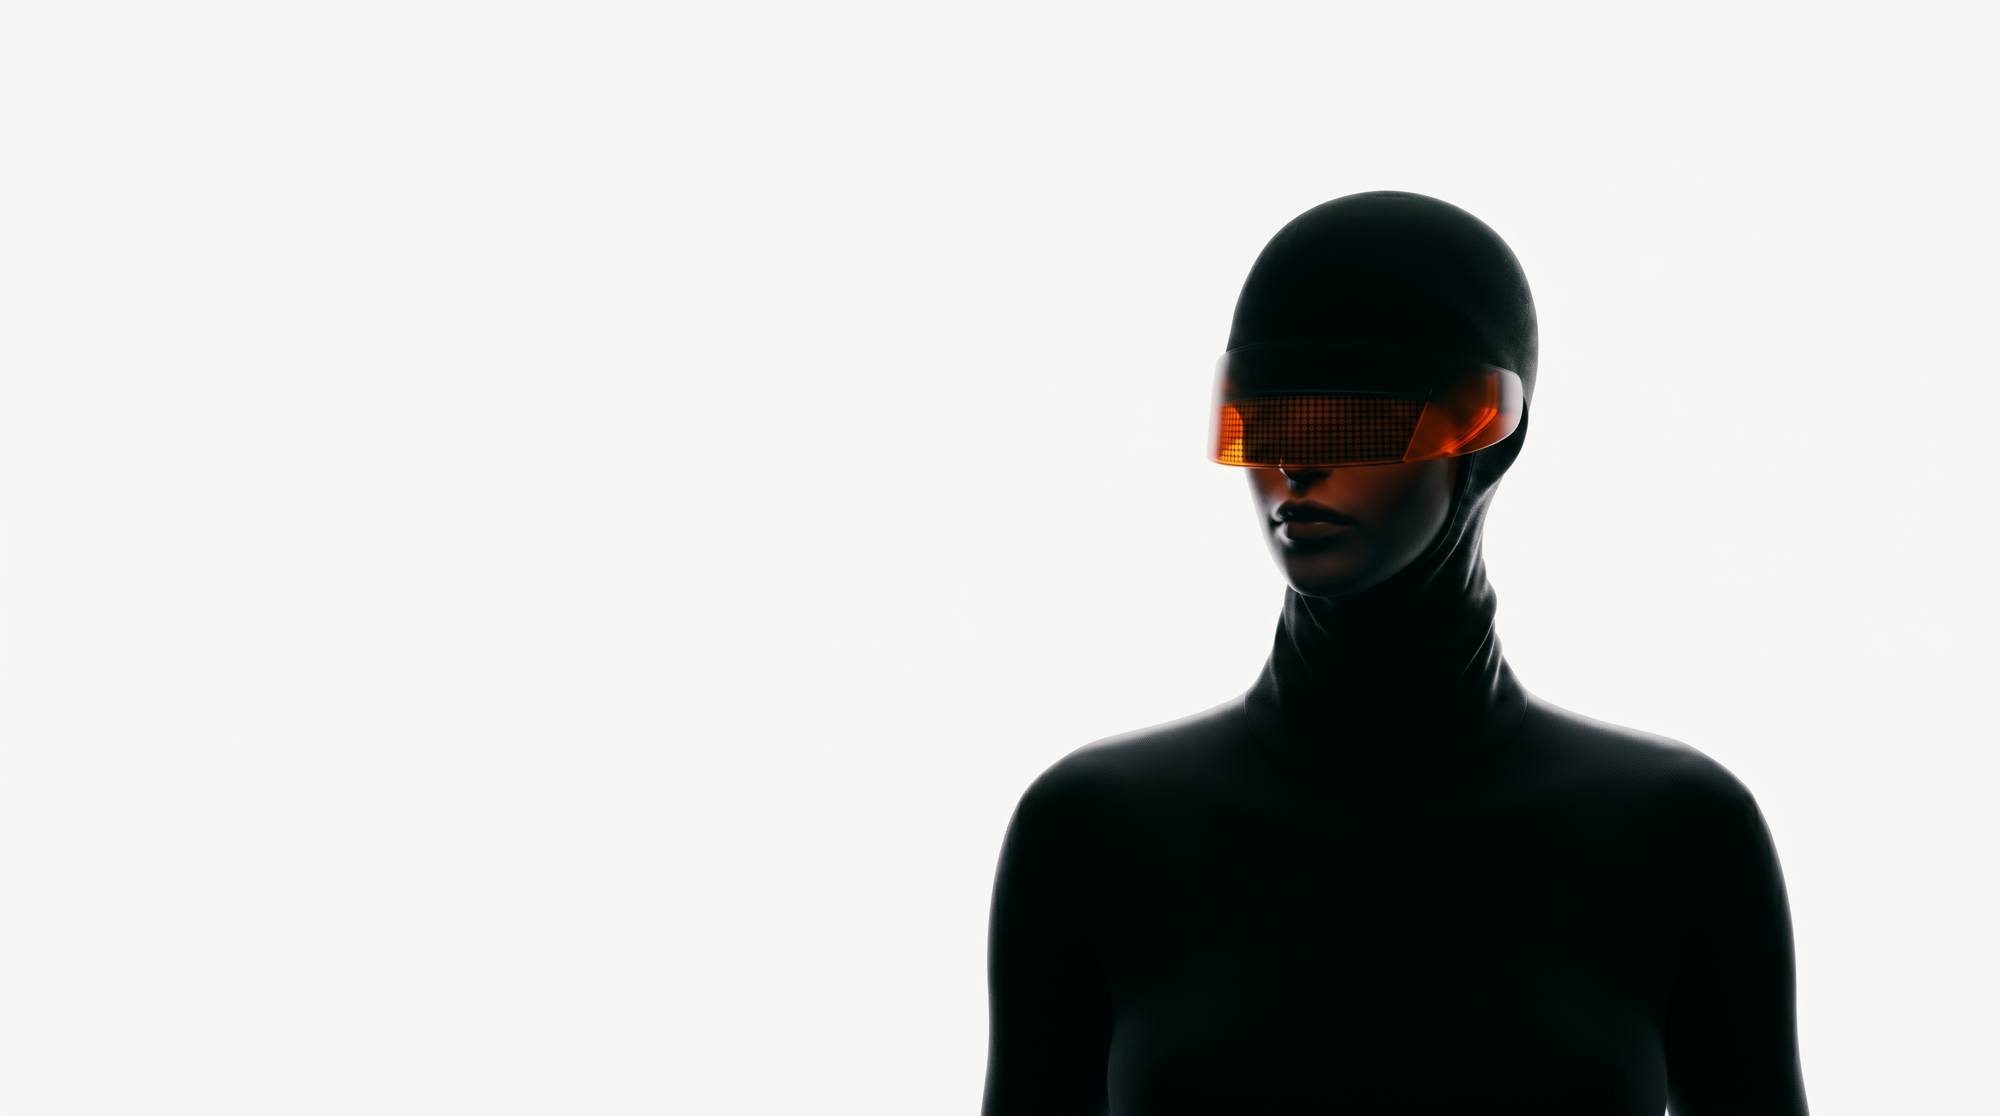
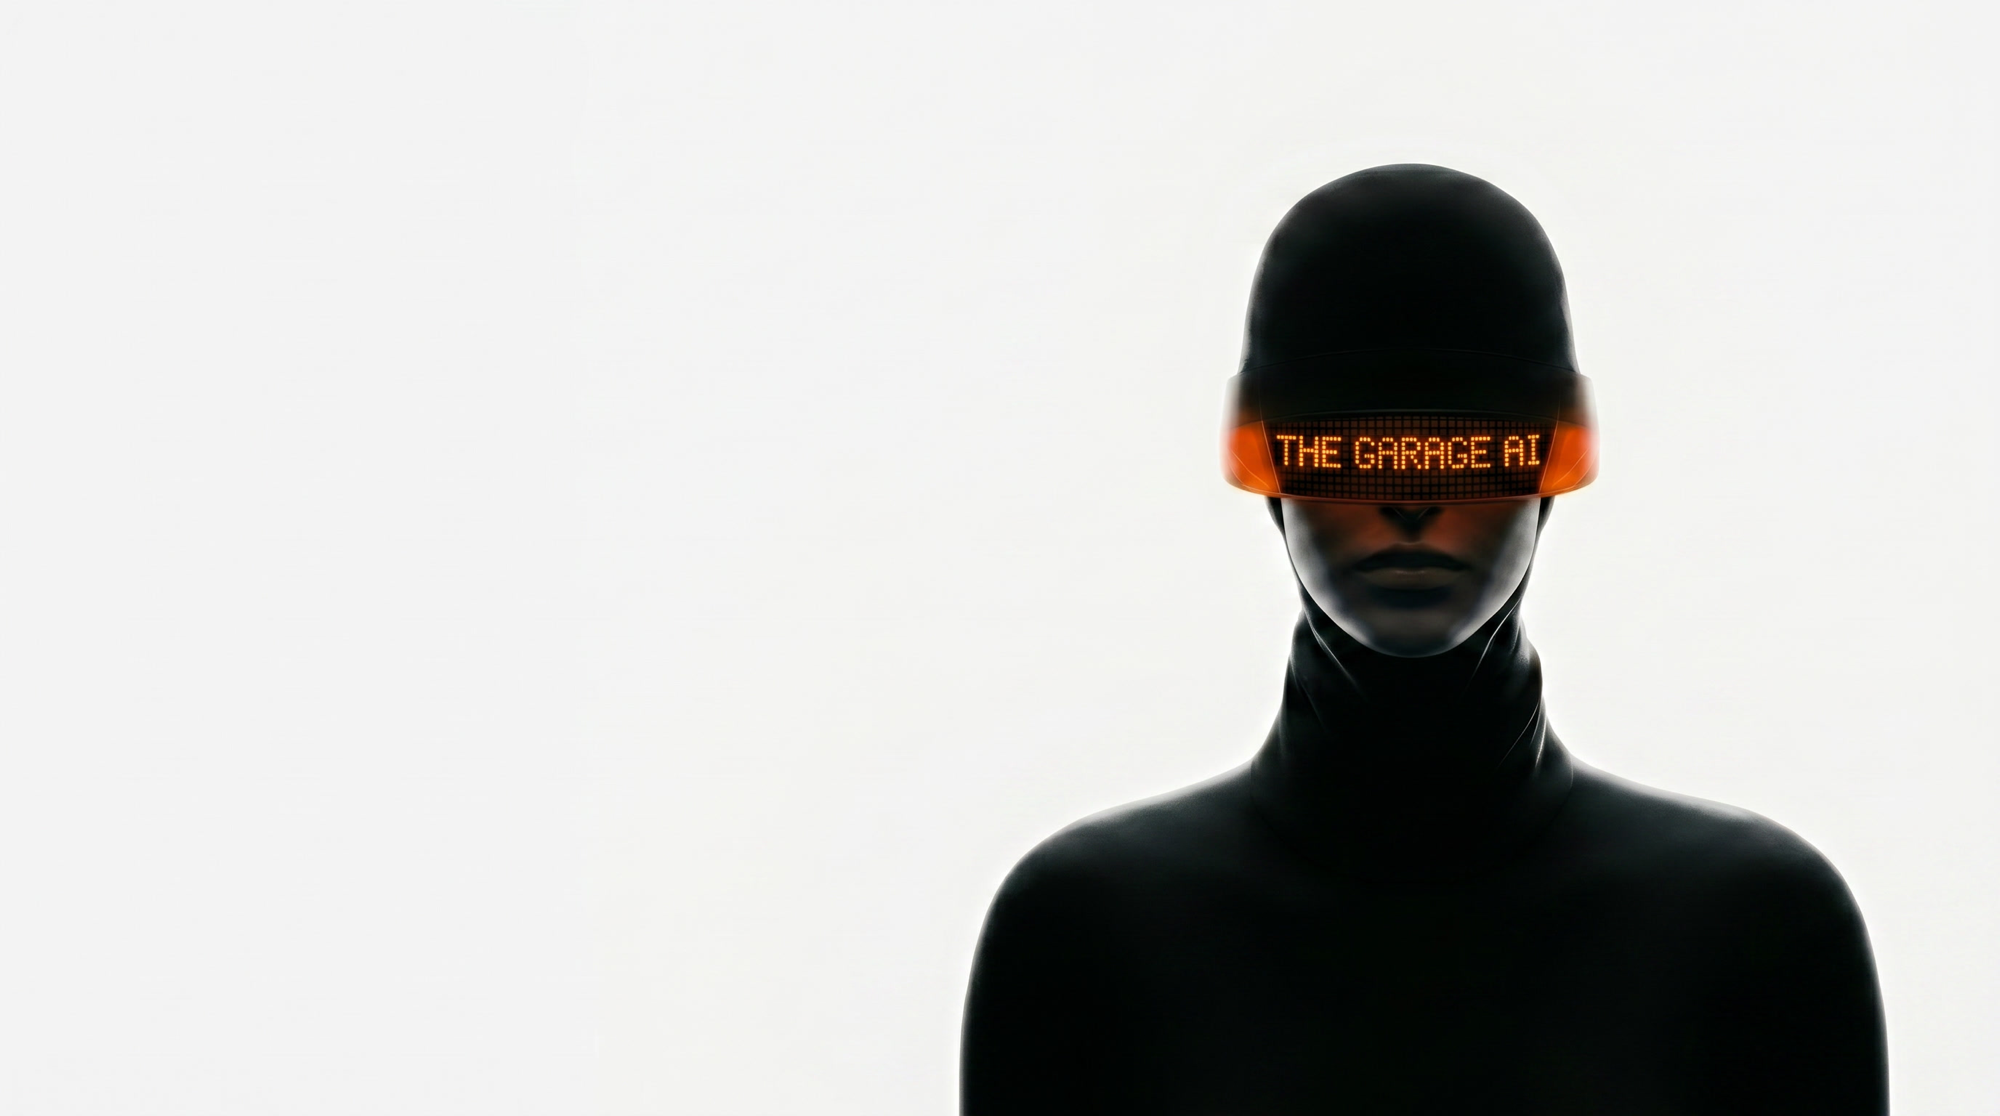
update hero background image and anchor position

diff --git a/frontend/src/components/public/hero.tsx b/frontend/src/components/public/hero.tsx
@@ -33,17 +33,12 @@ export function Hero({ coverPost, allPosts }: HeroProps) {
       data-testid="public-hero"
       className="relative isolate overflow-hidden"
     >
-      {/* Background image — anchored right so figure stays visible.
-          Scaled up and shifted right so the figure sits closer to the edge. */}
+      {/* Background image — natural scale, anchored right so figure shifts left. */}
       <img
         src="/hero-bg.png"
         alt=""
         aria-hidden
-        className="absolute inset-0 -z-20 size-full object-cover object-right"
-        style={{
-          transform: "scale(1.12) translateX(7.5%)",
-          transformOrigin: "right center",
-        }}
+        className="absolute inset-0 -z-20 size-full object-cover object-[80%_center]"
       />
 
       {/* Vertical chrome — version + broadcast schedule, right edge */}